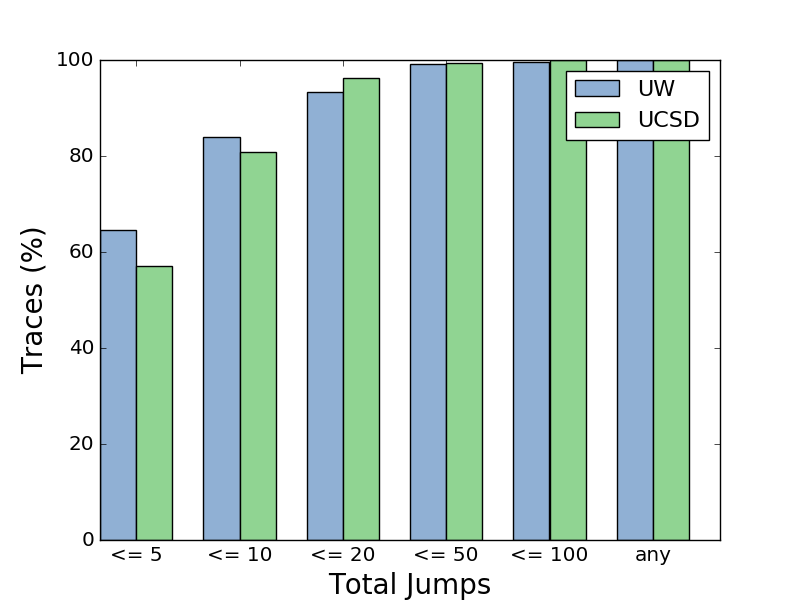
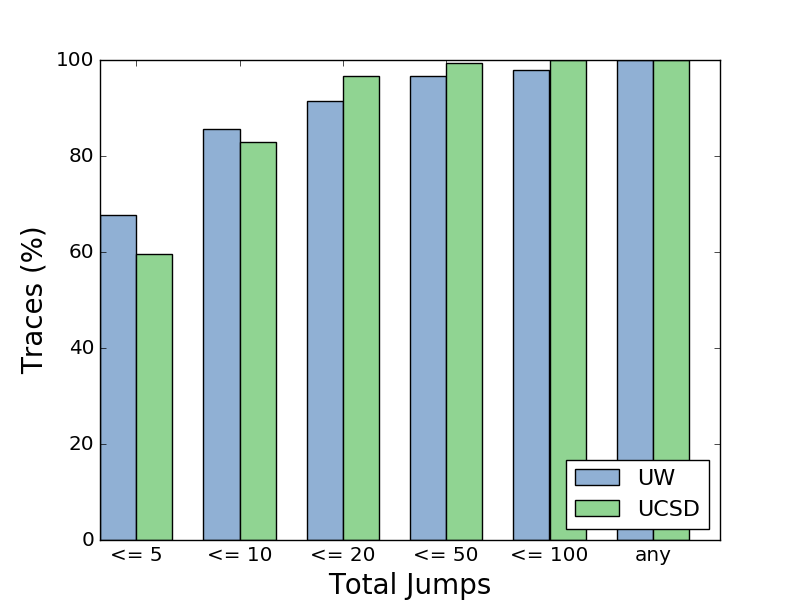
fiddling with figures..

diff --git a/paper/jfp-submission/plots.py b/paper/jfp-submission/plots.py
@@ -48,6 +48,8 @@ def plot_coverage(seminal, ucsd):
     xy_s = cumulative_coverage(seminal)
     xy_u = cumulative_coverage(ucsd)
 
+    print ('xy_s', xy_s)
+    print ('xy_u', xy_u)
 
     N = len(xy_s)
     ind = np.arange(N)    # the x locations for the groups
@@ -64,7 +66,7 @@ def plot_coverage(seminal, ucsd):
     plt.title('Cumulative Coverage', fontsize=24)
     plt.xticks(ind + width, [r[0] for r in xy_s], fontsize='large')
     plt.yticks(np.arange(0, 101, 10), fontsize='large')
-    plt.legend((p1[0], p2[0]), ('UW', UCSD), 'lower right', fontsize=16)
+    plt.legend((p1[0], p2[0]), ('UW', UCSD), loc='lower right', fontsize=16)
     # plt.legend((p1[0], p2[0]), ('Men', 'Women'))
     autolabel(plt, p1)
     autolabel(plt, p2)
@@ -226,7 +228,7 @@ def plot_trace_size(seminal, ucsd):
     print('ucsd:\t\t{}\t{}\t{}'.format(c_step_u[0], c_step_u[1], len(step_u)))
     print('avg/med/max:\t{}\t{}\t{}'.format(np.mean(step_u), np.median(step_s), np.max(step_u)))
     p2 = plt.bar(ind + width, c_step_u, label=UCSD, width=width, color=COLORS[1])
-    plt.legend((p1[0],p2[0]), ('UW',UCSD), fontsize=16)
+    plt.legend((p1[0],p2[0]), ('UW',UCSD), loc='lower right', fontsize=16)
     plt.title('Trace Complexity', fontsize=24)
     plt.xlabel('Total Steps', fontsize=20)
     plt.ylabel('Traces (%)', fontsize=20)
@@ -262,7 +264,7 @@ def plot_trace_size(seminal, ucsd):
     print('ucsd:\t\t{}\t{}\t{}'.format(c_jump_u[0], c_jump_u[1], len(jump_u)))
     print('avg/med/max:\t{}\t{}\t{}'.format(np.mean(jump_u), np.median(jump_s), np.max(jump_u)))
     p2 = plt.bar(ind + width, c_jump_u, label=UCSD, width=width, color=COLORS[1])
-    plt.legend((p1[0],p2[0]), ('UW',UCSD), fontsize=16)
+    plt.legend((p1[0],p2[0]), ('UW',UCSD), loc='lower right', fontsize=16)
     # plt.title('Complexity of Traces (in jumps)', fontsize=24)
     plt.xlabel('Total Jumps', fontsize=20)
     # plt.xlabel('Jumps', fontsize=20)
@@ -303,6 +305,9 @@ def plot_distrib(seminal, ucsd):
     rs_u = [len([r for r in ucsd[1:] if r[4] in o])
             for o in ALL_D]
 
+    print ('rs_s', rs_s)
+    print ('rs_u', rs_u)
+
     # N = len(xy)
     # ind = np.arange(N)    # the x locations for the groups
     # width = 0.5       # the width of the bars: can also be len(x) sequence
@@ -311,10 +316,11 @@ def plot_distrib(seminal, ucsd):
     #plt.figure(figsize=(1,1))
     #plt.axes(aspect=1)
     p1 = ax.pie(rs_s, labels=ALL_DL,
-                 autopct='%.1f%%',
+                 autopct='%.0f%%',
                  pctdistance=1.3,
                  labeldistance=10,
                  colors=COLORS,
+                 textprops={'fontsize':16},
                  shadow=True)
     ax.set_title('UW', fontsize=20)
 
@@ -322,17 +328,18 @@ def plot_distrib(seminal, ucsd):
     #ax.figure(figsize=(1,1))
     #plt.axes(aspect=1)
     p2 = ax.pie(rs_u, labels=ALL_DL,
-                 autopct='%.1f%%',
+                 autopct='%.0f%%',
                  pctdistance=1.3,
                  labeldistance=10,
                  colors=COLORS,
+                 textprops={'fontsize':16},
                  shadow=True)
     ax.set_title(UCSD, fontsize=20)
 
     #plt.tight_layout()
 
     plt.suptitle('Distribution of Results', fontsize=24, y=0.9)
-    plt.figlegend(p1[0], ALL_DL, 'lower center', fontsize=16, ncol=4)
+    plt.figlegend(p1[0], ALL_DL, 'lower center', fontsize=18, ncol=2)
 
 
     # p2 = plt.pie(rs, labels=ALL_L,
@@ -356,12 +363,12 @@ if __name__ == '__main__':
     seminal = read_csv('../../seminal.csv')
     ucsd = read_csv('../../ucsd.csv')
 
-    #plot_distrib(seminal, ucsd)
+    plot_distrib(seminal, ucsd)
 
-    #plot_trace_size(seminal, ucsd)
+    plot_trace_size(seminal, ucsd)
     # plot_trace_size(seminal, 'Seminal')
     # plot_trace_size(ucsd, UCSD)
 
-    #plot_coverage(seminal, ucsd)
+    plot_coverage(seminal, ucsd)
 
     plot_user_study()

diff --git a/paper/jfp-submission/semantics.tex b/paper/jfp-submission/semantics.tex
@@ -222,10 +222,10 @@ returns the existing instantiation.
 % \end{cases} \\
 \force{\vhole{\thole}}{t}{\vsu}{\tsu} & \defeq % \hspace{-1ex}
 \begin{cases}
-  \triple{v}{\vsu}{\tsu'}    & \textbf{if} \begin{array}{l} v = \lookupsu{\vsu}{\vhole{\thole}}, \\
+  \triple{v}{\vsu}{\tsu'}    &\ \textbf{if} \begin{array}{l} v = \lookupsu{\vsu}{\vhole{\thole}}, \\
                                          \tsu' = \unify{\{\thole, t, \typeof{v}\}}{\tsu}\end{array} \\
-  \triple{\stuck}{\vsu}{\tsu} & \textbf{if} \begin{array}{l} v = \lookupsu{\vsu}{\vhole{\thole}}\end{array} \\
-  \triple{v}{\extendsu{\vsu}{\vhole{\thole}}{v}}{\tsu'} & \textbf{if} \begin{array}{l} \tsu' = \unify{\{\thole, t\}}{\tsu}, \\ v = \gen{t}{\tsu'} \end{array}\\
+  \triple{\stuck}{\vsu}{\tsu} &\ \textbf{if} \begin{array}{l} v = \lookupsu{\vsu}{\vhole{\thole}}\end{array} \\
+  \triple{v}{\extendsu{\vsu}{\vhole{\thole}}{v}}{\tsu'} &\ \textbf{if} \begin{array}{l} \tsu' = \unify{\{\thole, t\}}{\tsu}, \\ v = \gen{t}{\tsu'} \end{array}\\
 \end{cases}  \\
 % \begin{cases}
 %   \triple{\lookupsu{\vsu}{\ehole}}{\vsu}{\tsu} & \mbox{if}\ \ehole \in dom(\vsu), \hastype{\lookupsu{\vsu}{\ehole}}{t} \\
@@ -239,9 +239,9 @@ returns the existing instantiation.
 \force{n}{\tint}{\vsu}{\tsu}     & \defeq \triple{n}{\vsu}{\tsu} \\
 \force{b}{\tbool}{\vsu}{\tsu}    & \defeq \triple{b}{\vsu}{\tsu} \\
 \force{\efun{x}{e}}{\tfun}{\vsu}{\tsu} & \defeq \triple{\efun{x}{e}}{\vsu}{\tsu} \\
-\force{\epair{v_1}{v_2}}{\tprod{t_1}{t_2}}{\vsu}{\tsu} & \defeq \triple{\epair{v_1}{v_2}}{\vsu}{\tsu''} & \hspace{-42mm} \textbf{if} \begin{array}{l} \tsu' = \unify{\{\typeof{v_1}, t_1\}}{\tsu},\\ \tsu'' = \unify{\{\typeof{v_2}, t_2\}}{\tsu'} \end{array} \\
-\force{\vleaf{t_1}}{\ttree{t_2}}{\vsu}{\tsu} & \defeq \triple{\vleaf{t_1}}{\vsu}{\tsu'} & \hspace{-42mm} \textbf{if} \begin{array}{l} \tsu' = \unify{\{t_1, t_2\}}{\tsu} \end{array}\\
-\force{\vnode{t_1}{v_1}{v_2}{v_3}}{\ttree{t_2}}{\vsu}{\tsu} \hspace{-3mm} & \defeq \triple{\vnode{t_1}{v_1}{v_2}{v_3}}{\vsu}{\tsu'} & \hspace{-42mm} \textbf{if} \begin{array}{l} \tsu' = \unify{\{t_1, t_2\}}{\tsu} \end{array} \\
+\force{\epair{v_1}{v_2}}{\tprod{t_1}{t_2}}{\vsu}{\tsu} & \defeq \triple{\epair{v_1}{v_2}}{\vsu}{\tsu''} & \hspace{-43.5mm} \textbf{if} \begin{array}{l} \tsu' = \unify{\{\typeof{v_1}, t_1\}}{\tsu},\\ \tsu'' = \unify{\{\typeof{v_2}, t_2\}}{\tsu'} \end{array} \\
+\force{\vleaf{t_1}}{\ttree{t_2}}{\vsu}{\tsu} & \defeq \triple{\vleaf{t_1}}{\vsu}{\tsu'} & \hspace{-43.5mm} \textbf{if} \begin{array}{l} \tsu' = \unify{\{t_1, t_2\}}{\tsu} \end{array}\\
+\force{\vnode{t_1}{v_1}{v_2}{v_3}}{\ttree{t_2}}{\vsu}{\tsu} \hspace{-3mm} & \defeq \triple{\vnode{t_1}{v_1}{v_2}{v_3}}{\vsu}{\tsu'} & \hspace{-43.5mm} \textbf{if} \begin{array}{l} \tsu' = \unify{\{t_1, t_2\}}{\tsu} \end{array} \\
 \force{v}{t}{\vsu}{\tsu} & \defeq \triple{\stuck}{\vsu}{\tsu}
 \end{array}
 \]
@@ -959,7 +959,7 @@ We obtain the following corollary of Theorem~\ref{thm:soundness}:
 
 \begin{cor}{\textbf{[Witness Generation]}}
 \label{thm:generation}
-  If $$\genWitness{k}{e} = \triple{\eapp{e}{v_1 \ldots v_n}}{\vsu}{\tsu},\ldots$$
+  If $\genWitness{k}{e} = \triple{\eapp{e}{v_1 \ldots v_n}}{\vsu}{\tsu},\ldots$
   then for all types $t_1 \ldots t_n$ there exist values $w_1 \ldots w_n$ such that
   $\steps{\eapp{e}{w_1 \ldots w_n}}{\emptysu}{\emptysu}{\stuck}{\vsu'}{\tsu'}$.
 \end{cor}

diff --git a/paper/jfp-submission/evaluation.tex b/paper/jfp-submission/evaluation.tex
@@ -94,16 +94,16 @@ If so, the function cannot possibly terminate and we report an error.
 While not a \emph{type error}, infinite recursion is still a clear bug
 in the program, and thus valuable feedback for the user.
 
-\begin{figure*}[htp]
-\centering
-\begin{minipage}{\linewidth}
-\centering
-\includegraphics[width=0.45\linewidth]{coverage.png}
+\begin{figure}[htp]
+\centerline{
+\begin{minipage}{1.2\textwidth}
+\includegraphics[width=0.5\linewidth]{coverage.png}
 % \end{minipage}
 % \begin{minipage}{\linewidth}
-\includegraphics[width=0.45\linewidth]{distrib.png}
+\includegraphics[width=0.5\linewidth]{distrib.png}
 \end{minipage}
-% \vspace{-8ex}
+}
+\vspace{3ex}
 \caption{Results of our coverage testing and the distribution of test
   outcomes. Our random search successfully finds witnesses for 79--85\% of
   the programs in under one second, improving to 87\% in under
@@ -112,7 +112,7 @@ in the program, and thus valuable feedback for the user.
   diverging loops 2--3\% of the time. For the remaining 11--12\% of the
   programs we are unable to provide any useful feedback.  }
 \label{fig:results-witness}
-\end{figure*}
+\end{figure}
 
 \paragraph{Results}
 \label{sec:results-witness}
@@ -165,20 +165,28 @@ trace using two metrics.
 
 % \item \ES{others?}
 %
-\begin{figure*}[htp]
-\centering
-\includegraphics[width=0.45\linewidth]{trace_size_step.png}
-\includegraphics[width=0.45\linewidth]{trace_size_jump.png}
+\begin{figure}[htp]
+\centerline{
+\begin{minipage}{1.2\textwidth}
+\includegraphics[width=0.5\linewidth]{trace_size_step.png}
+\includegraphics[width=0.5\linewidth]{trace_size_jump.png}
+\end{minipage}
+}
+\vspace{3ex}
 \caption{Complexity of the generated traces. 81\% of the combined traces
   have a jump complexity of at most 10, with an average complexity of 7
   and a median of 5.}
 \label{fig:results-complexity}
-\end{figure*}
+\end{figure}
 %
-\begin{figure*}[htp]
-\centering
-\includegraphics[width=0.45\linewidth]{user-study-reason.png}
-\includegraphics[width=0.45\linewidth]{user-study-fix.png}
+\begin{figure}[htp]
+\centerline{
+\begin{minipage}{1.2\textwidth}
+\includegraphics[width=0.5\linewidth]{user-study-reason.png}
+\includegraphics[width=0.5\linewidth]{user-study-fix.png}
+\end{minipage}
+}
+\vspace{3ex}
 \caption{A classification of students' explanations and fixes for type
   errors, given either \ocaml's error % message
   or \toolname's
@@ -186,7 +194,7 @@ trace using two metrics.
   trace consistently scored better ($\ge 10\%$) than those given \ocaml's type
   error.}
 \label{fig:results-user-study}
-\end{figure*}
+\end{figure}
 
 \paragraph{Results}
 \label{sec:results-complexity}

diff --git a/paper/jfp-submission/main.tex b/paper/jfp-submission/main.tex
@@ -65,10 +65,10 @@ and a generous gift from Microsoft Research.}\\
 \author[E. L. Seidel, R. Jhala, and W. Weimer]
        {ERIC L. SEIDEL, RANJIT JHALA\\
          University of California, San Diego, USA\\
-         \email{\{eseidel,jhala\}@cs.ucsd.edu}
+         %\email{\{eseidel,jhala\}@cs.ucsd.edu}
         WESTLEY WEIMER\\
          University of Virginia, USA\\
-         \email{weimer@virginia.edu}
+         \email{\{eseidel,jhala\}@cs.ucsd.edu, weimer@virginia.edu}
        }
 
 \begin{document}

diff --git a/paper/jfp-submission/interactive-short.tex b/paper/jfp-submission/interactive-short.tex
@@ -146,7 +146,7 @@ edge linking the initial and final expressions.
 
 \begin{figure}[t]
 \centering
-\includegraphics[width=\linewidth]{fac-steps-new.png}
+\includegraphics[height=4in]{fac-steps-new.png}
 \caption{A sequence of interactions with the trace of
   \texttt{fac 1}. The stuck term is red, in each node the redex is
   highlighted. Thick arrows denote a multi-step transition, thin arrows
